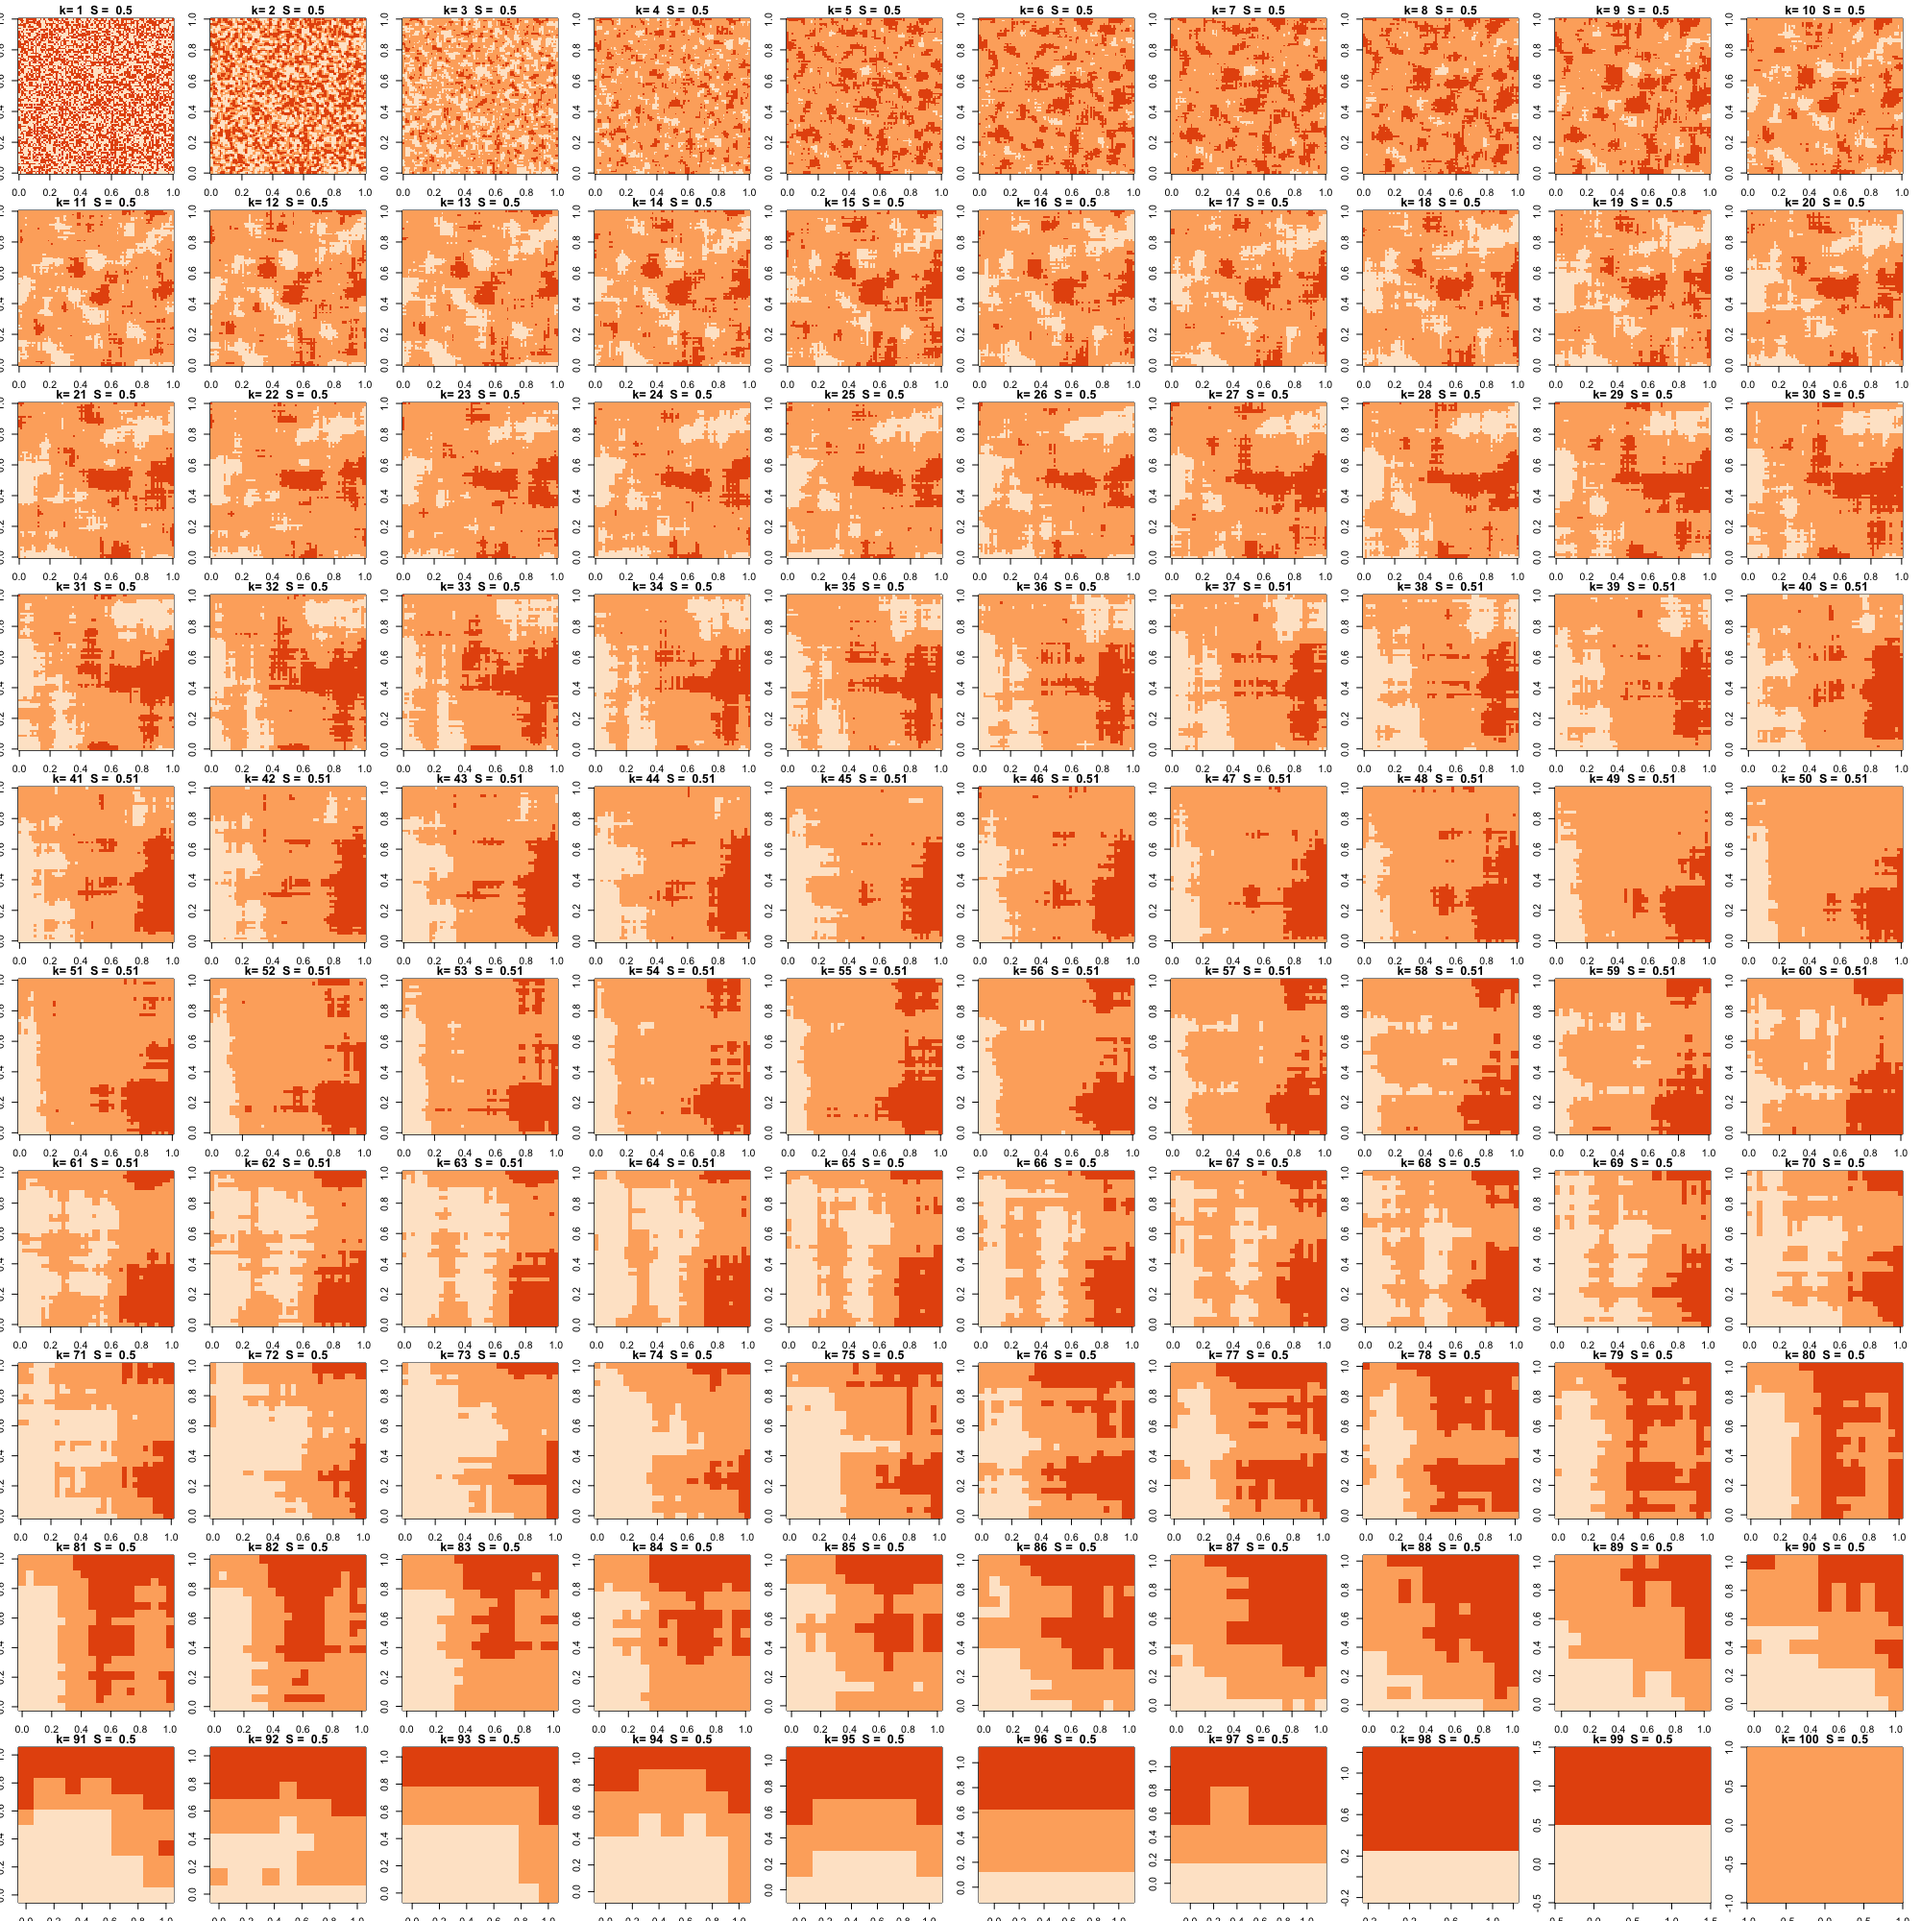
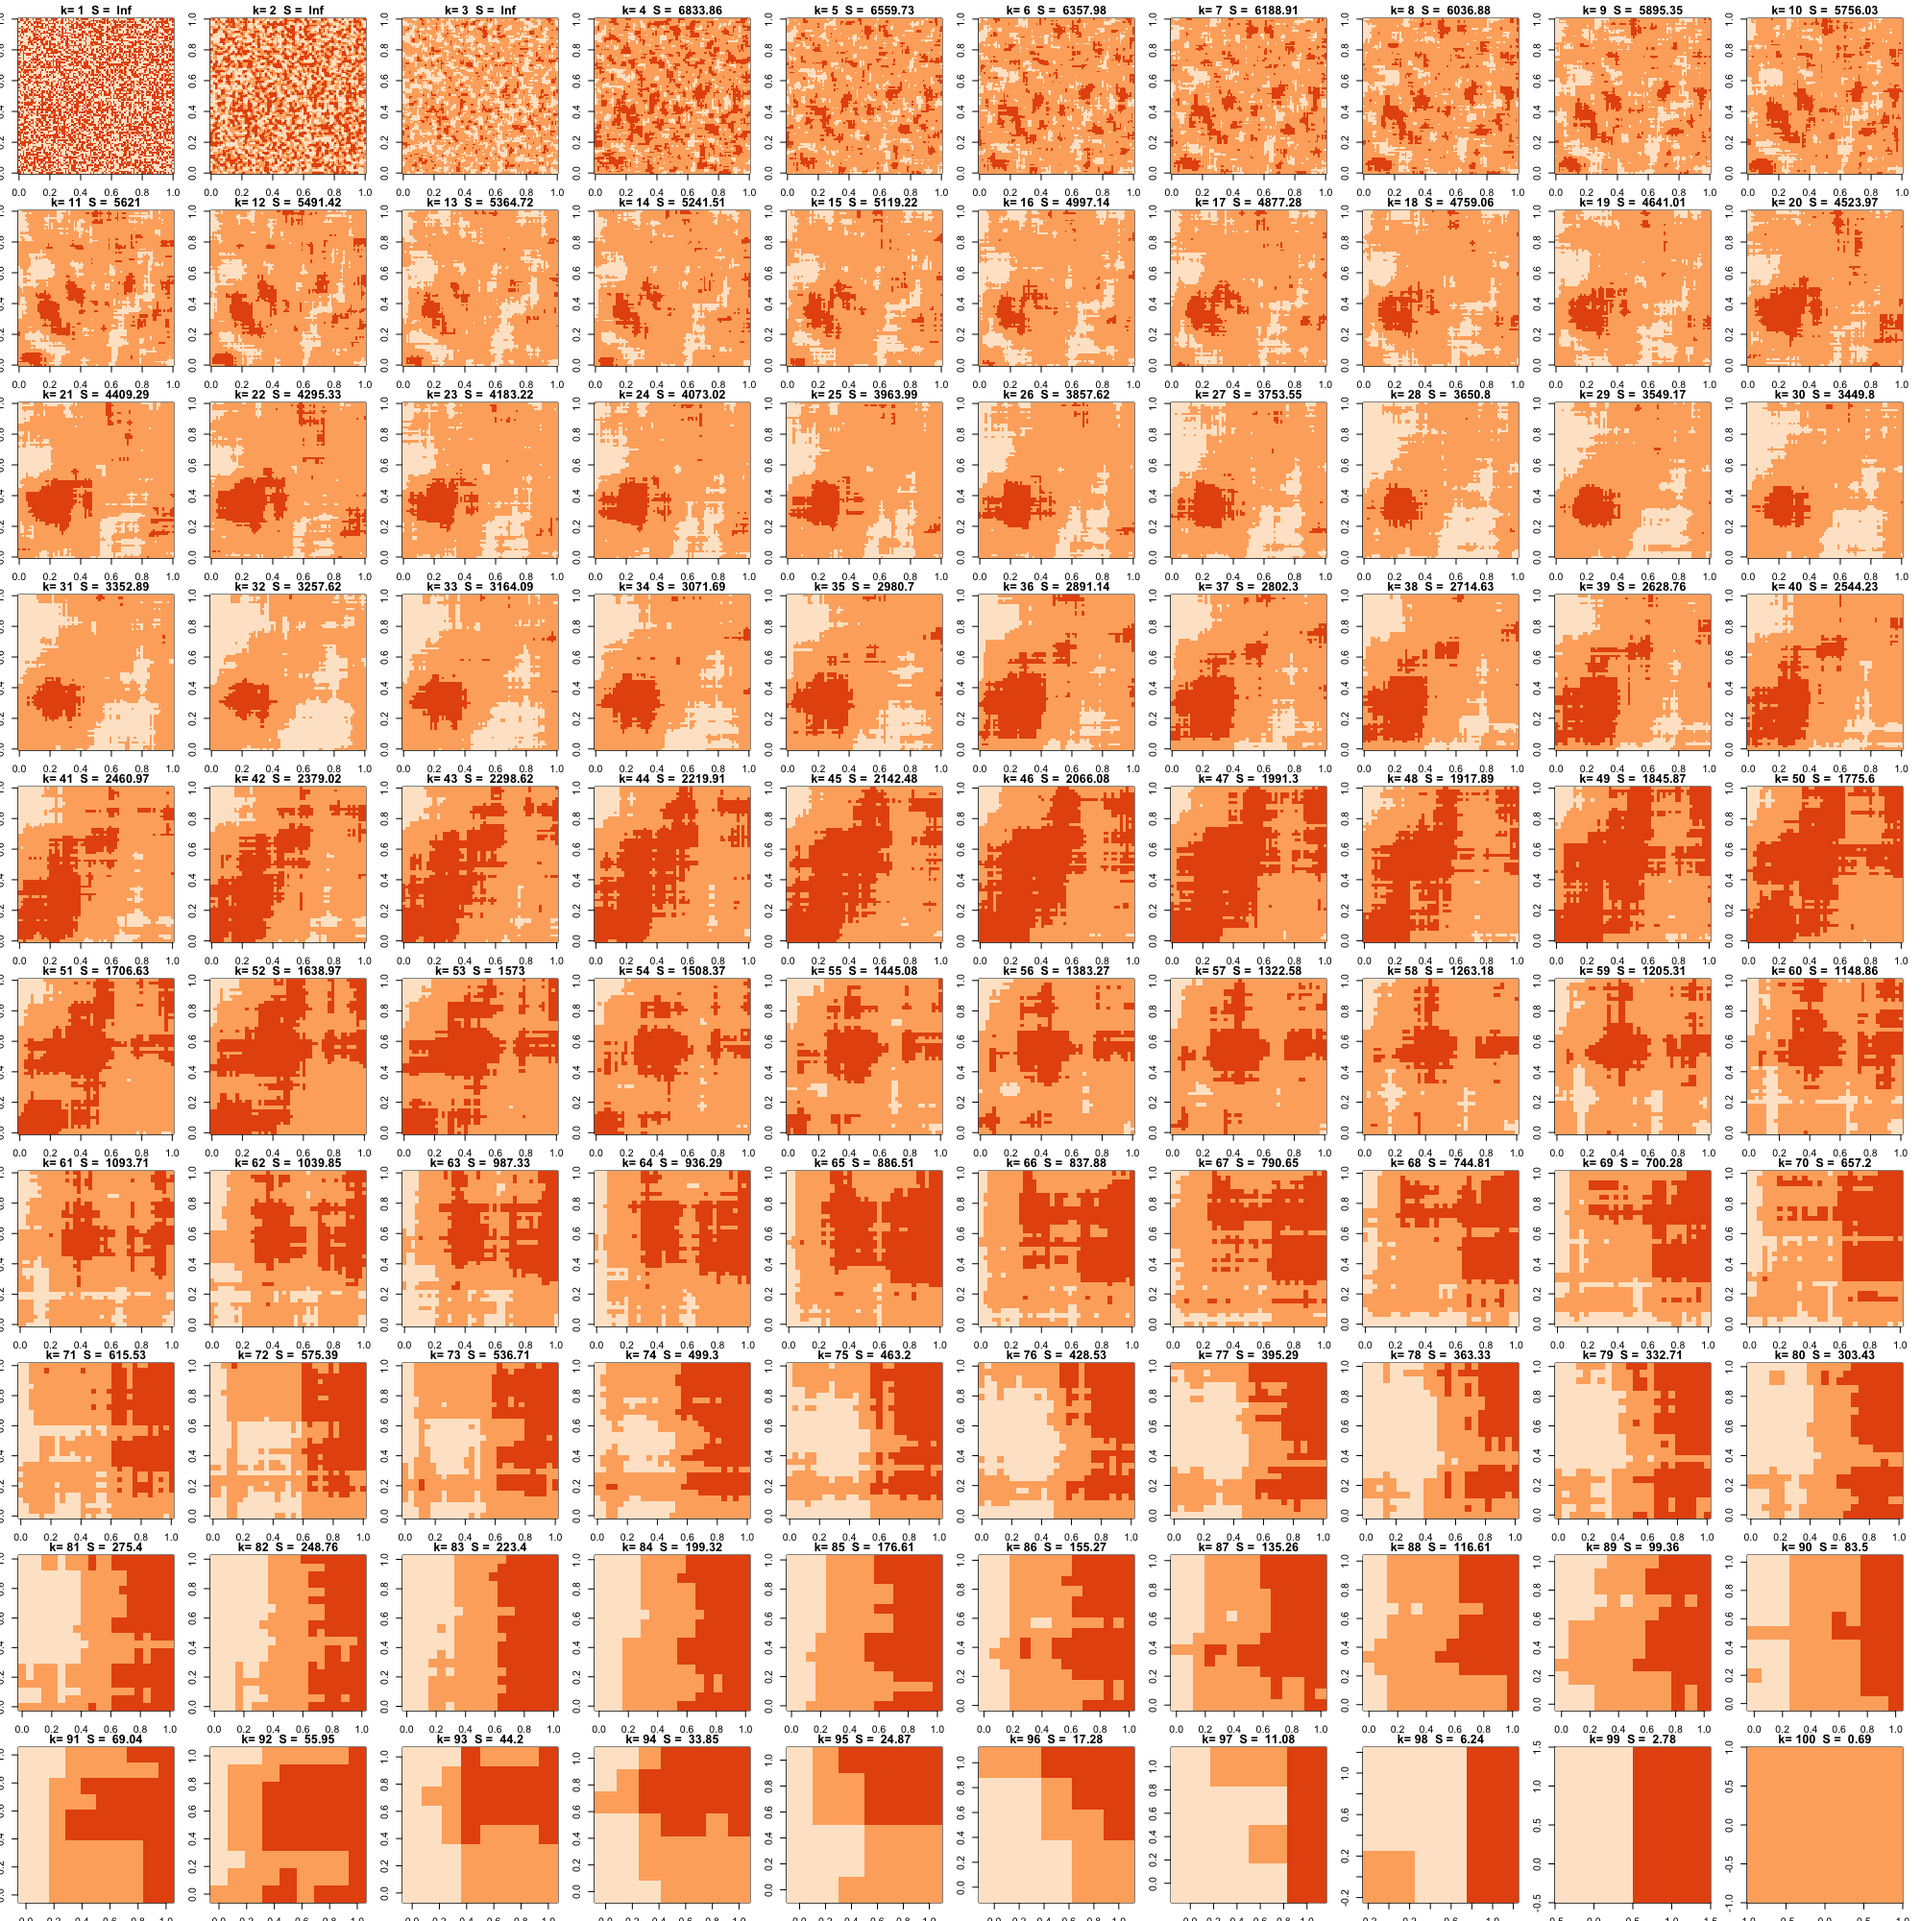
entropy

diff --git a/README.md b/README.md
@@ -2,7 +2,7 @@
 
 R version of this python implementation of *Measuring entropy patterns of a 2d binary matrix* by William Huber using Mathematica at https://github.com/MarkEdmondson1234/matrix-entropy
 
-It uses the concept of localised similarilty to try and give a intuitive visualisation on if a matrix is ordered (low entropy) or unordered (high entropy)
+It uses the concept of localised similarilty to try and give an intuitive visualisation on if a matrix is ordered (low entropy) or unordered (high entropy)
 
 ## Demo
 
@@ -21,8 +21,8 @@ chess <- matrix(rep(c(rep(c(1, 0), 4), rep(c(0,1), 4)), 4), nrow = 8)
 
 
 plot_ks(chess)
-#  1   2   3   4   5   6   7   8 
-#0.5 0.5 0.5 0.5 0.5 0.5 0.5 0.5
+         1          2          3          4          5          6          7          8 
+       Inf 33.9642118 25.1769039 17.3286795 11.1031651  6.2383246  2.7734219  0.6931472 
 ```
 
 ![](chess.png)
@@ -33,8 +33,8 @@ Random board: S is higher at all levels of neighbourhoods (k)
 my_matrix <- test_matrix(8)
 plot_ks(my_matrix)
 
-#        1         2         3         4         5         6         7         8 
-#0.6093750 0.5969388 0.5987654 0.5950000 0.5950000 0.5987654 0.5969388 0.6093750 
+         1          2          3          4          5          6          7          8 
+       Inf        Inf 23.4858626 14.4746664  9.2703745  5.5500607  2.4971547  0.6325226 
 ```
 
 ![](random_8.png)
@@ -42,5 +42,7 @@ plot_ks(my_matrix)
 ```r
 m_lowest <- low_matrix(8)
 plot_ks(m_lowest)
+1 2 3 4 5 6 7 8 
+0 0 0 0 0 0 0 0 
 ```
 
